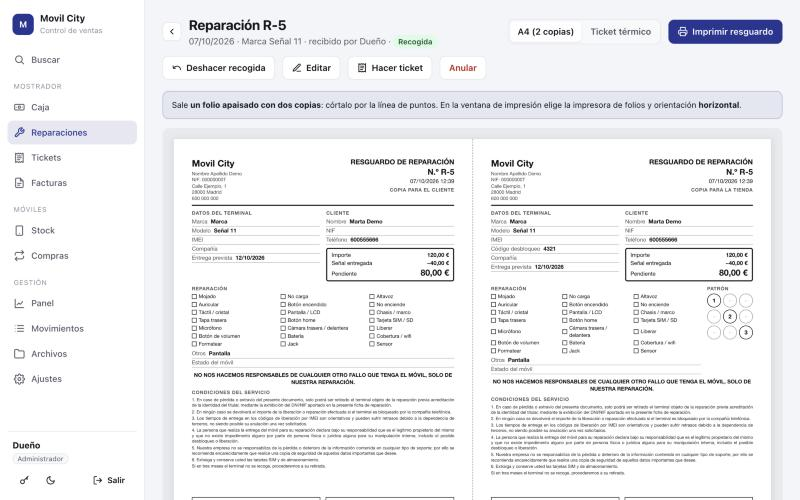
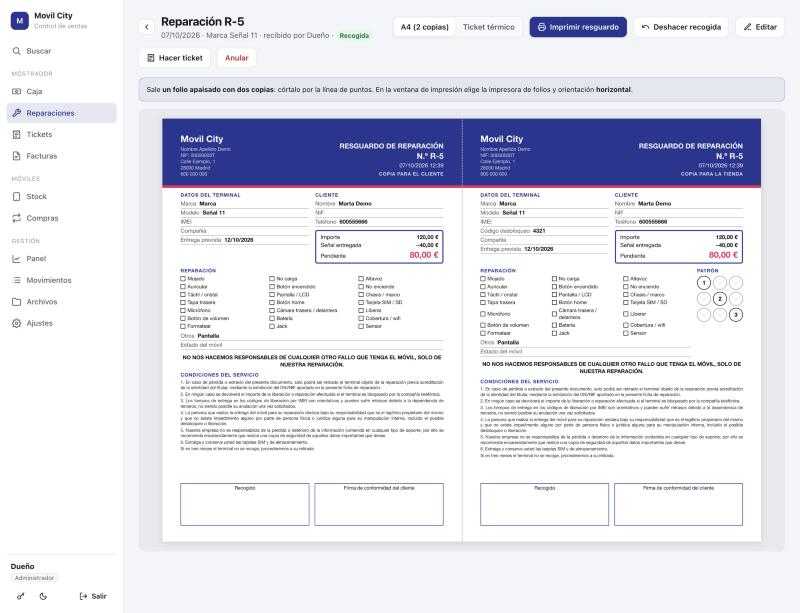
Give the purchase contract and the repair receipt the invoice's design
The contract is arranged by the same three designs as the invoice. Each
copy of the repair receipt gets a colour header in the document colours,
since a side column does not fit an A5 copy. The contract is set a little
tighter so it fits one page in every design.

diff --git a/public/js/purchase-contract.js b/public/js/purchase-contract.js
@@ -1,51 +1,62 @@
 // Printable contract for buying a used phone from a private seller: two A4 pages, one copy for each party.
+// It follows the design chosen for invoices, so all the shop's documents look alike.
 import { esc, money, fmtDate } from './core.js';
+import { documentDesign, documentColors } from './invoice.js';
 
 const lines = (parts) => parts.filter(Boolean).map(esc).join('<br>');
 
-function contractCopy(purchase, settings, copyLabel) {
+function contractBlocks(purchase, settings, copyLabel) {
   const { shop, purchases: config } = settings;
   const terms = config.terms.split('\n').filter(Boolean).map(text => `<p>${esc(text)}</p>`).join('');
   const row = (label, value) => `<tr><th>${label}</th><td>${esc(value || '—')}</td></tr>`;
-
-  return `<div class="invoice-doc contract-doc">
-    ${purchase.voided ? '<div class="void-stamp">ANULADA</div>' : ''}
-    <header class="doc-head">
+  const price = `${money(purchase.price)}${purchase.payment_method ? ` · pagado en ${purchase.payment_method.toLowerCase()}` : ''}`;
+  return {
+    voidStamp: purchase.voided ? '<div class="void-stamp">ANULADA</div>' : '',
+    // The shop is the buyer.
+    brand: `
       <div class="doc-brand">
         ${shop.logo ? `<img class="shop-logo" src="${shop.logo}" alt="">` : ''}
         <h2 class="shop-name">${esc(shop.name)}</h2>
-      </div>
+        <div class="shop-lines"><b>Comprador</b><br>${lines([shop.legal_name, shop.nif && `NIF: ${shop.nif}`, shop.address1, shop.address2, shop.phone])}</div>
+      </div>`,
+    id: `
       <div class="doc-id">
         <div class="doc-title">Contrato de compraventa</div>
         <div class="doc-number">N.º ${esc(purchase.number || '—')}</div>
         <div class="doc-date">${fmtDate(purchase.date)}</div>
         <div class="copy-label">${copyLabel}</div>
-      </div>
-    </header>
+      </div>`,
+    seller: `
+      <section class="doc-customer">
+        <h4>Vendedor</h4>${lines([purchase.seller_name, `DNI/NIE: ${purchase.seller_nif}`, purchase.seller_address, purchase.seller_phone])}
+      </section>`,
+    body: `
+      <p class="contract-intro">Compraventa de un teléfono móvil de segunda mano entre el comprador y el vendedor indicados.</p>
+      <h4>Terminal que se vende</h4>
+      <table class="contract-table">
+        ${row('Marca y modelo', [purchase.brand, purchase.model].filter(Boolean).join(' '))}
+        ${row('IMEI', purchase.imei)}
+        ${row('Estado', purchase.condition)}
+        ${row('Precio', price)}
+      </table>
+      <h4>Cláusulas</h4>
+      <div class="contract-terms">${terms}</div>
+      <p class="contract-intro">Y en prueba de conformidad, ambas partes firman este contrato por duplicado en la fecha indicada.</p>
+      <div class="contract-signatures"><div>El comprador</div><div>El vendedor</div></div>`,
+  };
+}
 
-    <p class="contract-intro">Compraventa de un teléfono móvil de segunda mano entre las siguientes partes:</p>
-    <div class="contract-parties">
-      <section><h4>Comprador</h4>${lines([shop.legal_name || shop.name, shop.nif && `NIF: ${shop.nif}`, shop.address1, shop.address2, shop.phone])}</section>
-      <section><h4>Vendedor</h4>${lines([purchase.seller_name, `DNI/NIE: ${purchase.seller_nif}`, purchase.seller_address, purchase.seller_phone])}</section>
-    </div>
+// The same arrangements as the invoice (see A4_DESIGNS in invoice.js).
+const CONTRACT_DESIGNS = {
+  classic: (b) => `<header class="doc-head">${b.brand}${b.id}</header>${b.seller}${b.body}`,
+  sidebar: (b) => `<aside class="doc-side">${b.brand}${b.seller}</aside><div class="doc-main">${b.id}${b.body}</div>`,
+  banner: (b) => `<header class="doc-banner">${b.brand}${b.id}</header><div class="doc-main">${b.seller}${b.body}</div>`,
+};
 
-    <h4>Terminal que se vende</h4>
-    <table class="contract-table">
-      ${row('Marca y modelo', [purchase.brand, purchase.model].filter(Boolean).join(' '))}
-      ${row('IMEI', purchase.imei)}
-      ${row('Estado', purchase.condition)}
-      ${row('Precio', `${money(purchase.price)}${purchase.payment_method ? ` · pagado en ${purchase.payment_method.toLowerCase()}` : ''}`)}
-    </table>
-
-    <h4>Cláusulas</h4>
-    <div class="contract-terms">${terms}</div>
-
-    <p class="contract-intro">Y en prueba de conformidad, ambas partes firman este contrato por duplicado en la fecha indicada.</p>
-    <div class="contract-signatures">
-      <div>El comprador</div>
-      <div>El vendedor</div>
-    </div>
-  </div>`;
+function contractCopy(purchase, settings, copyLabel) {
+  const design = documentDesign(settings);
+  const blocks = contractBlocks(purchase, settings, copyLabel);
+  return `<div class="invoice-doc contract-doc layout-${design}" style="${documentColors(settings)}">${blocks.voidStamp}${CONTRACT_DESIGNS[design](blocks)}</div>`;
 }
 
 export function purchaseContract(purchase, settings) {

diff --git a/public/css/app.css b/public/css/app.css
@@ -518,6 +518,17 @@ table.t tr.deleted td { opacity: .55; text-decoration: line-through; }
 .sheet-signatures { margin-top: auto; display: grid; grid-template-columns: 1fr 1fr; gap: 10px; }
 .sheet-signatures div { border: 1px solid #111; height: 24mm; padding: 2px 5px; font-size: 9px; text-align: center; }
 .sheet-copy .void-stamp { position: absolute; top: 42%; left: 50%; transform: translate(-50%, -50%) rotate(-18deg); font-size: 60px; font-weight: 800; color: rgba(220, 38, 38, .22); border: 6px solid rgba(220, 38, 38, .22); padding: 0 20px; border-radius: 12px; }
+/* The repair receipt takes the colours of the chosen design: each copy gets a colour header.
+   A side column would leave too little room on an A5 copy, so both colour designs use the header. */
+.sheet-copy.layout-sidebar, .sheet-copy.layout-banner { padding-top: 0; }
+.sheet-copy.layout-sidebar header, .sheet-copy.layout-banner header { margin: 0 -9mm; padding: 7mm 9mm 4mm; background: var(--doc-title); color: #fff; border-bottom: 1.4mm solid var(--doc-accent); align-items: flex-end; }
+.sheet-copy.layout-sidebar header .shop-lines, .sheet-copy.layout-banner header .shop-lines,
+.sheet-copy.layout-sidebar header .copy-label, .sheet-copy.layout-banner header .copy-label { color: rgba(255, 255, 255, .8); }
+.sheet-copy.layout-sidebar .logo, .sheet-copy.layout-banner .logo { background: #fff; border-radius: 4px; padding: 2px; }
+.sheet-copy.layout-sidebar h4, .sheet-copy.layout-banner h4 { color: var(--doc-title); }
+.sheet-copy.layout-sidebar .sheet-amount, .sheet-copy.layout-banner .sheet-amount { border-color: var(--doc-title); }
+.sheet-copy.layout-sidebar .sheet-amount div:last-child b, .sheet-copy.layout-banner .sheet-amount div:last-child b { color: var(--doc-accent); }
+.sheet-copy.layout-sidebar .sheet-signatures div, .sheet-copy.layout-banner .sheet-signatures div { border-color: var(--doc-title); height: 21mm; }
 @media print {
   .repair-sheet { box-shadow: none; height: calc(210mm - 0.2mm); }
 }
@@ -526,17 +537,23 @@ table.t tr.deleted td { opacity: .55; text-decoration: line-through; }
 .contract-doc { font-size: 12px; }
 .contract-doc + .contract-doc { margin-top: 18px; }
 .contract-doc .copy-label { margin-top: 4px; font-size: 10px; font-weight: 700; text-transform: uppercase; letter-spacing: .06em; color: var(--doc-muted); }
-.contract-doc h4 { margin-top: 18px; }
-.contract-intro { margin: 18px 0 0; }
-.contract-parties { display: grid; grid-template-columns: 1fr 1fr; gap: 14px; margin-top: 12px; }
-.contract-parties section { padding: 10px 12px; background: #f6f7f9; border-radius: 8px; border-left: 3px solid var(--doc-title); }
-.contract-parties h4 { margin-top: 0; }
+.contract-doc h4 { margin-top: 12px; }
+.contract-intro { margin: 12px 0 0; }
+.contract-doc .shop-lines b { text-transform: uppercase; font-size: 10.5px; letter-spacing: .08em; }
+.contract-doc.layout-sidebar .doc-title { font-size: 25px; }
+.contract-doc.layout-sidebar .copy-label, .contract-doc.layout-banner .copy-label { color: inherit; opacity: .75; }
+.contract-doc.layout-sidebar .copy-label { color: var(--doc-muted); opacity: 1; }
+.contract-doc.layout-banner .doc-title { font-size: 24px; }
+.contract-doc.layout-sidebar .contract-intro:first-of-type { margin-top: 10mm; }
+.contract-doc.layout-banner .doc-banner { padding-top: 11mm; padding-bottom: 6mm; }
+.contract-doc.layout-banner .doc-customer { margin-top: 6mm; }
+.contract-doc .doc-customer h4 { margin-top: 0; }
 .contract-table { width: 100%; border-collapse: collapse; }
 .contract-table th { text-align: left; width: 34mm; color: var(--doc-muted); font-weight: 600; }
 .contract-table th, .contract-table td { padding: 5px 0; border-bottom: 1px solid var(--doc-line); vertical-align: top; }
-.contract-terms p { margin: 0 0 6px; text-align: justify; }
+.contract-terms p { margin: 0 0 4px; text-align: justify; }
 .contract-signatures { margin-top: auto; padding-top: 16px; display: grid; grid-template-columns: 1fr 1fr; gap: 16px; }
-.contract-signatures div { border: 1px solid var(--doc-ink); height: 32mm; padding: 4px 8px; font-size: 10.5px; text-align: center; }
+.contract-signatures div { border: 1px solid var(--doc-ink); height: 22mm; padding: 4px 8px; font-size: 10.5px; text-align: center; }
 @media print {
   .contract-doc + .contract-doc { margin-top: 0; break-before: page; }
 }

diff --git a/public/js/invoice.js b/public/js/invoice.js
@@ -150,12 +150,18 @@ const A4_DESIGNS = {
     </div>`,
 };
 
+// The design and colours chosen in Settings, shared by every A4 document (invoice, contract, repair receipt).
+export const documentDesign = (settings) => (A4_DESIGNS[settings.invoice.layout] ? settings.invoice.layout : 'sidebar');
+
+export function documentColors(settings) {
+  const { color_shop: shop, color_title: title, color_accent: accent } = settings.invoice;
+  return `--doc-shop:${esc(shop)};--doc-title:${esc(title)};--doc-accent:${esc(accent)}`;
+}
+
 export function invoiceA4(inv, settings) {
-  const cfg = settings.invoice;
-  const design = A4_DESIGNS[cfg.layout] ? cfg.layout : 'sidebar';
-  const colors = `--doc-shop:${esc(cfg.color_shop)};--doc-title:${esc(cfg.color_title)};--doc-accent:${esc(cfg.color_accent)}`;
+  const design = documentDesign(settings);
   const blocks = a4Blocks(inv, settings);
-  return `<div class="invoice-doc layout-${design}" style="${colors}">${blocks.voidStamp}${A4_DESIGNS[design](blocks)}</div>`;
+  return `<div class="invoice-doc layout-${design}" style="${documentColors(settings)}">${blocks.voidStamp}${A4_DESIGNS[design](blocks)}</div>`;
 }
 
 export function ticket80(inv, settings) {

diff --git a/public/js/repair-receipt.js b/public/js/repair-receipt.js
@@ -1,6 +1,6 @@
 // Printable repair receipt: an A4 landscape sheet with two A5 copies, or a thermal ticket.
 import { esc, money, fmtDate, fmtTime } from './core.js';
-import { thermalClass } from './invoice.js';
+import { thermalClass, documentDesign, documentColors } from './invoice.js';
 
 const PATTERN_DOTS = [1, 2, 3, 4, 5, 6, 7, 8, 9];
 
@@ -41,7 +41,7 @@ function sheetCopy(repair, settings, { label, showUnlock }) {
   const conditions = config.conditions.split('\n').filter(Boolean).map(text => `<p>${esc(text)}</p>`).join('');
   const payment = paymentRows(repair);
 
-  return `<section class="sheet-copy">
+  return `<section class="sheet-copy layout-${documentDesign(settings)}" style="${documentColors(settings)}">
     ${repair.voided ? '<div class="void-stamp">ANULADA</div>' : ''}
     <header>
       <div>

diff --git a/docs/ARQUITECTURA.md b/docs/ARQUITECTURA.md
@@ -121,6 +121,8 @@ El esquema completo, comentado, está al principio de `src/db.js`.
 
 - `invoice.js` construye los bloques de la factura una sola vez (`a4Blocks`: tienda, título, cliente, líneas, totales, pie) y cada diseño de `A4_DESIGNS` solo los coloca de otra forma.
 - El ajuste `invoice.layout` elige el diseño (`sidebar`, `banner` o `classic`); el aspecto de cada uno está en la sección *A4 designs* de `app.css`.
+- El contrato (`purchase-contract.js`) tiene sus propias colocaciones, `CONTRACT_DESIGNS`, con las mismas clases. El resguardo de reparación solo toma los colores y una cabecera, porque cada copia es un A5.
+- `documentDesign()` y `documentColors()` de `invoice.js` dan a todas las plantillas el diseño y los colores elegidos.
 - Para añadir un diseño: una entrada en `A4_DESIGNS`, sus estilos `.layout-nombre` y la opción en `SCHEMAS.facturas` de `views/settings.js`.
 - Las paletas de *Ajustes → Apariencia* (`PALETTES` en `views/settings.js`) guardan a la vez los colores de la app (`appearance`) y los de los documentos (`invoice.color_*`).
 

diff --git a/README.md b/README.md
@@ -96,11 +96,13 @@ Cada venta guarda su precio y su beneficio. Para no restar dos veces el coste de
 
 ## Diseño de los documentos
 
-La factura, y el ticket cuando se imprime en A4, tiene tres diseños para elegir en *Ajustes → Tickets y facturas → Diseño de la factura*:
+Los documentos en A4 comparten diseño y colores. Hay tres diseños para elegir en *Ajustes → Tickets y facturas → Diseño de la factura*:
 
 - **Columna lateral de color**: una franja a toda la altura con los datos de la tienda y del cliente, y el documento a la derecha.
 - **Cabecera de color**: un bloque de color arriba con la tienda y el título.
 - **Clásico**: fondo blanco, tienda a la izquierda y título a la derecha.
+
+La factura, el ticket en A4 y el contrato de compra usan el diseño elegido tal cual. El resguardo de reparación, que lleva dos copias pequeñas por hoja, usa una cabecera de color en lugar de la columna.
 
 Los colores se eligen en *Ajustes → Apariencia*: cada paleta cambia a la vez los de la aplicación y los de los documentos.
 
